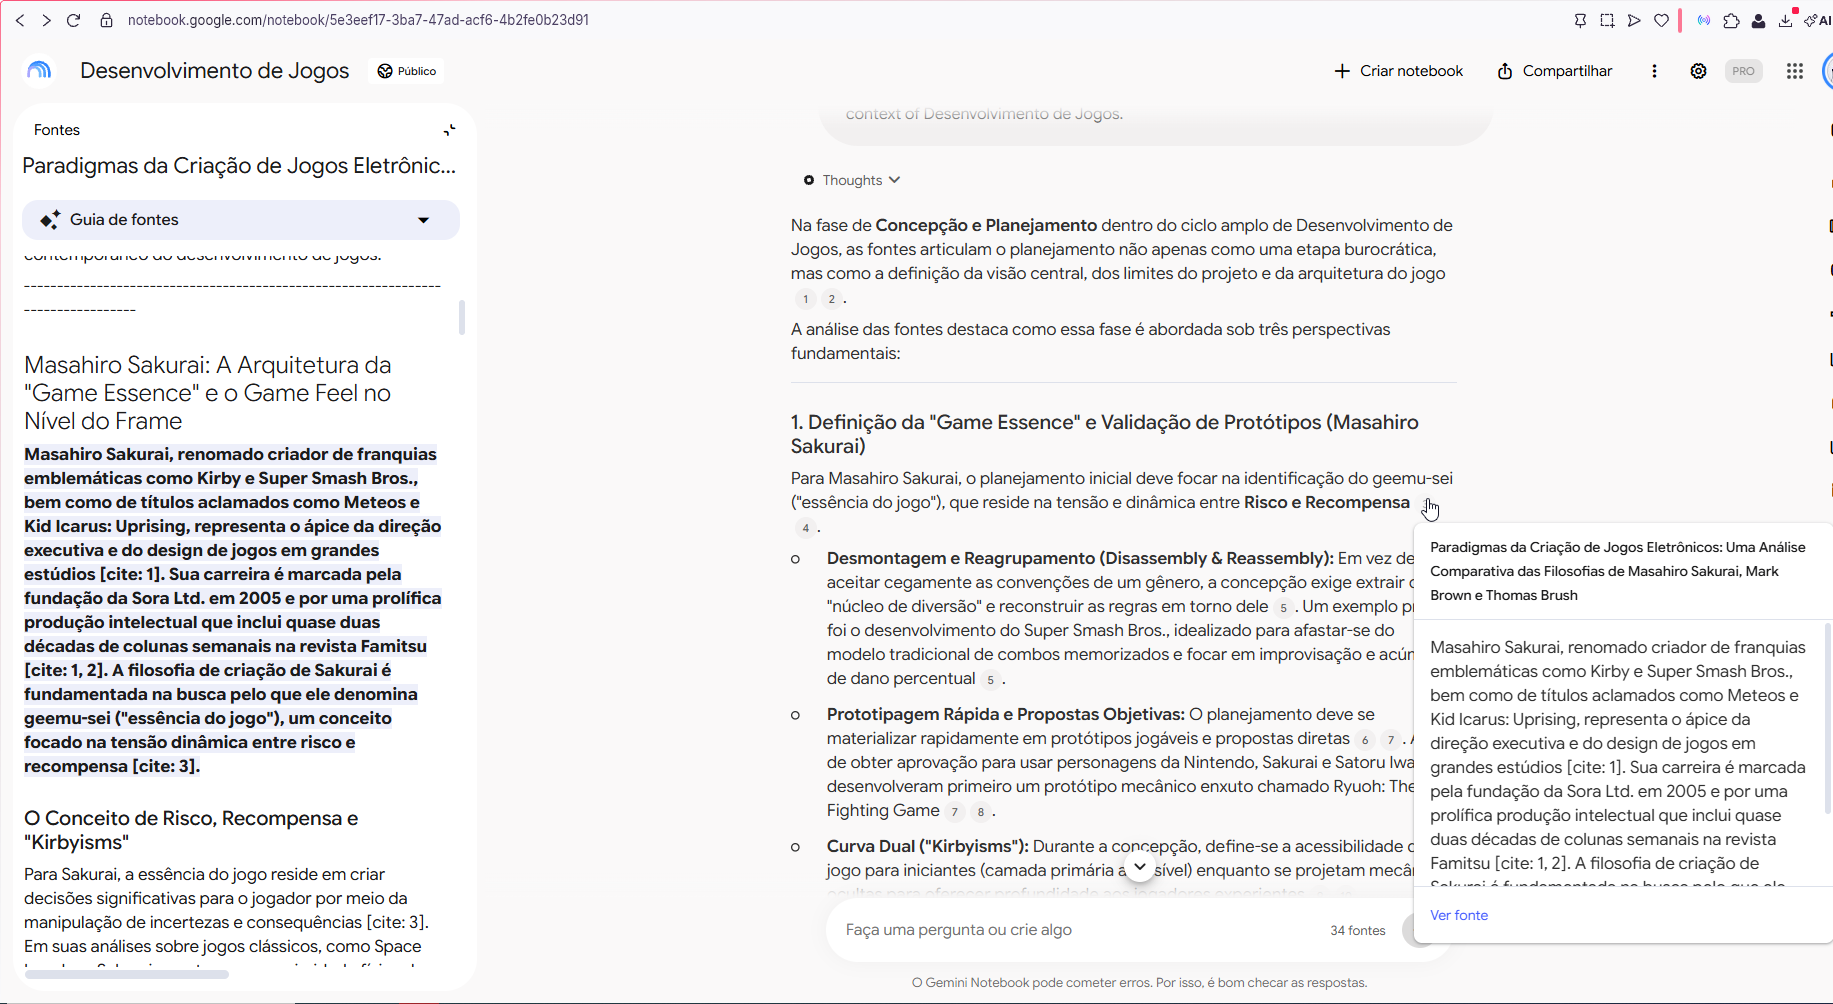
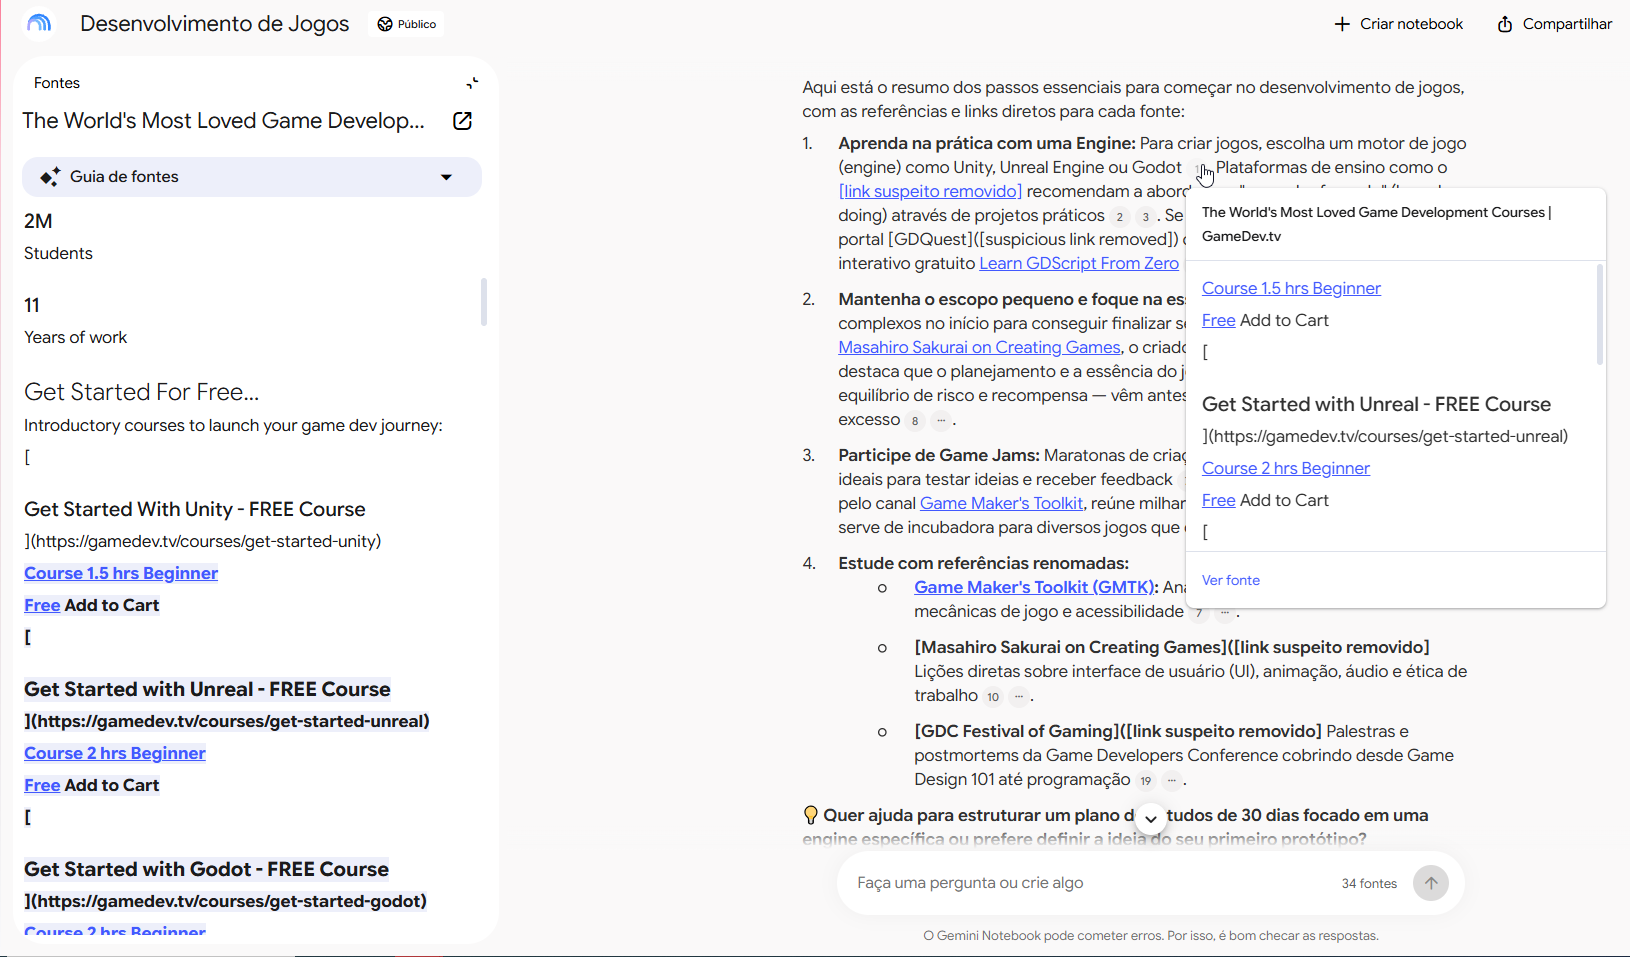
Adicionar imagens de evidências das referências no README

diff --git a/README.md b/README.md
@@ -61,6 +61,15 @@ Aqui está o resumo dos passos essenciais para começar no desenvolvimento de jo
 
 ### Evidências das referências:
 
+#### Referência 1
+![Referência 1](conteudos/evidencia-referencia-1.png)
+
+#### Referência 2
+![Referência 2](conteudos/evidencia-referencia-2.png)
+
+#### Referência 3
+![Referência 3](conteudos/evidencia-referencia-3.png)
+
 
 
 # Formatos do Estudio Gerados
